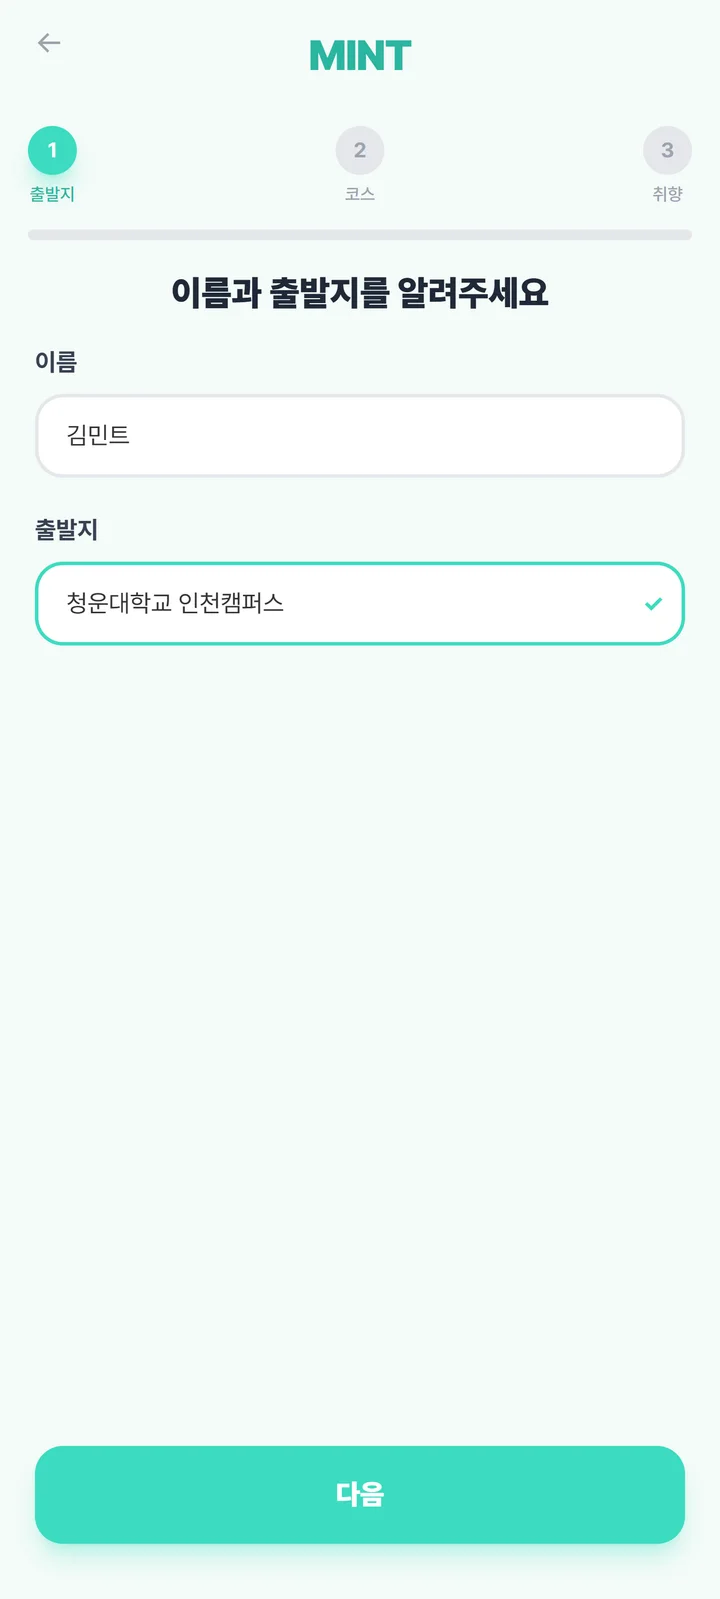
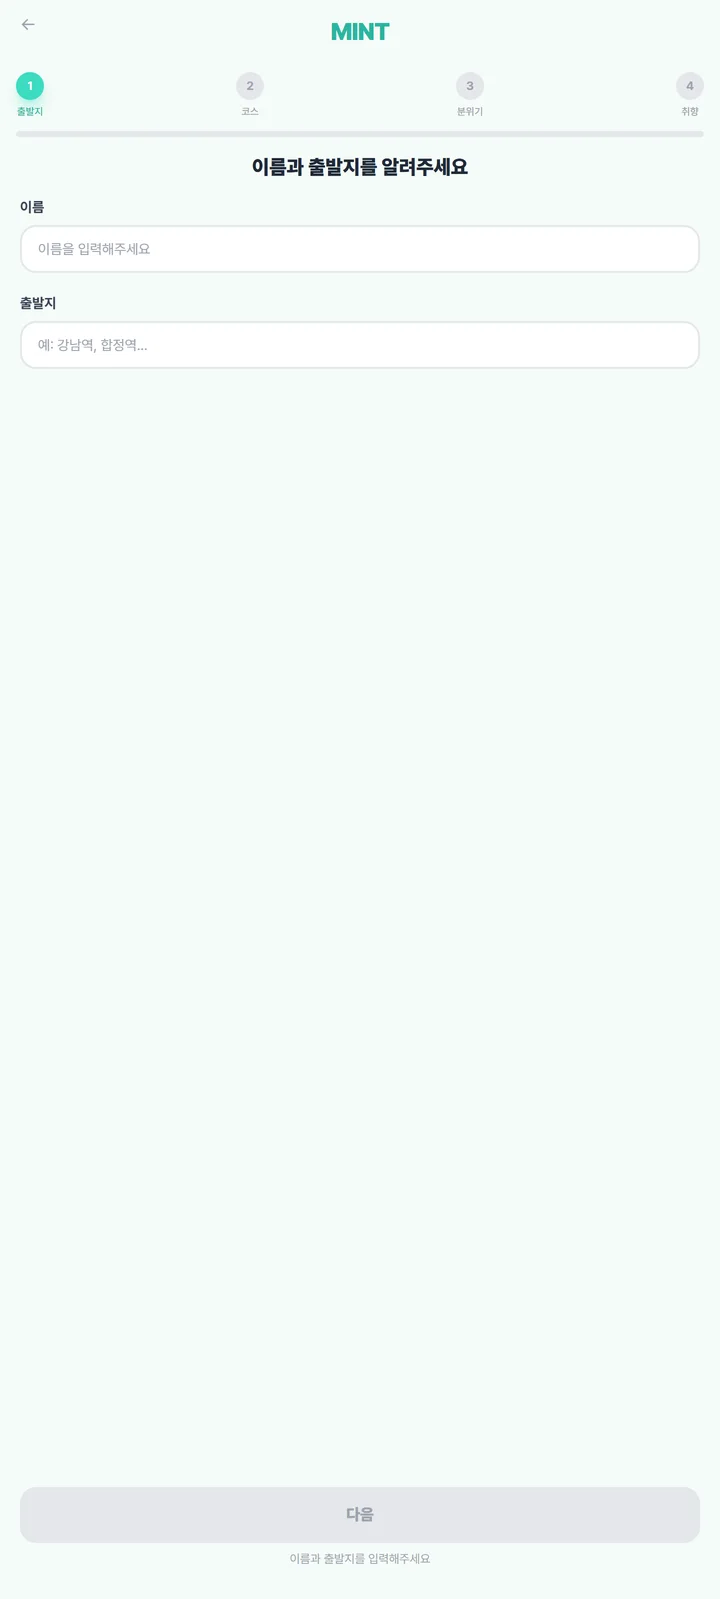
fix: 그룹 참여(링크) 흐름 4단계로 통일 + 그룹 취향/출발지 목업 갱신
버그: 그룹 링크로 참여하면 상단 단계바가 3단계(출발지/코스/취향)로 나와
호스트·솔로·랜딩의 4단계와 어긋났음("나도 참여하기"·멤버 링크 진입 시 4→3 전환).

수정:
- MemberInput을 4단계로 재구성: 출발지 / 코스 / 분위기 / 취향
  (취향 한 화면에 몰려있던 분위기+편식+편의시설을 분위기(step2)와
   못먹는음식·편의시설(step3)로 분리 — 4단계 정합 + 스크롤 부담 완화)
- VibeSelect에 section prop 추가('all'|'mood'|'extras'), 솔로 Home은 'all'로 기존 유지
- StepProgress total 3→4, 라벨 [출발지,코스,분위기,취향]

랜딩 목업:
- join-vibe.webp → 최신 취향/편식 화면(제공 스샷)으로 교체
- join-start.webp → 4단계 바 반영본으로 재생성

검증: Playwright로 참여 흐름 4단계 바 + step2(분위기만)/step3(편식·편의만) 분리 통과.
타입체크·단위테스트 26개 통과.

diff --git a/src/pages/MemberInput.tsx b/src/pages/MemberInput.tsx
@@ -9,7 +9,7 @@ import type { VibeState } from '../components/VibeSelect';
 import StepProgress from '../components/StepProgress';
 import { EXCLUDE_FOOD_PREFIX } from '../utils/groupAggregate';
 
-type Phase = 'step0' | 'step1' | 'step2' | 'done';
+type Phase = 'step0' | 'step1' | 'step2' | 'step3' | 'done';
 
 function SuggestionDropdown({
   suggestions,
@@ -244,7 +244,7 @@ export default function MemberInput() {
     );
   }
 
-  const stepIndex = phase === 'step0' ? 0 : phase === 'step1' ? 1 : 2;
+  const stepIndex = phase === 'step0' ? 0 : phase === 'step1' ? 1 : phase === 'step2' ? 2 : 3;
 
   return (
     <div className="h-[100dvh] bg-[#F5FBF8] flex flex-col overflow-hidden">
@@ -261,7 +261,7 @@ export default function MemberInput() {
 
       {/* 스텝 프로그레스 */}
       <div className="flex-shrink-0">
-        <StepProgress current={stepIndex} total={3} labels={['출발지', '코스', '취향']} />
+        <StepProgress current={stepIndex} total={4} labels={['출발지', '코스', '분위기', '취향']} />
       </div>
 
       {/* 스텝 제목 */}
@@ -270,9 +270,13 @@ export default function MemberInput() {
           {phase === 'step0' && '이름과 출발지를 알려주세요'}
           {phase === 'step1' && '오늘의 코스 선택'}
           {phase === 'step2' && '원하는 분위기를 골라봐요'}
+          {phase === 'step3' && '취향을 더 알려주세요'}
         </h2>
         {phase === 'step2' && (
-          <p className="text-xs text-gray-400 mt-1">취향을 많이 고를수록 추천이 정확해져요</p>
+          <p className="text-xs text-gray-400 mt-1">많이 고를수록 추천이 정확해져요</p>
+        )}
+        {phase === 'step3' && (
+          <p className="text-xs text-gray-400 mt-1">못 먹는 음식·편의시설 (선택)</p>
         )}
       </div>
 
@@ -334,6 +338,16 @@ export default function MemberInput() {
 
         {phase === 'step2' && (
           <VibeSelect
+            section="mood"
+            value={vibe}
+            onChange={setVibe}
+            purpose={{ first: purpose.first, second: purpose.second }}
+          />
+        )}
+
+        {phase === 'step3' && (
+          <VibeSelect
+            section="extras"
             value={vibe}
             onChange={setVibe}
             purpose={{ first: purpose.first, second: purpose.second }}
@@ -361,7 +375,7 @@ export default function MemberInput() {
         <div className="flex gap-3">
           {stepIndex > 0 && (
             <button
-              onClick={() => setPhase(stepIndex === 1 ? 'step0' : 'step1')}
+              onClick={() => setPhase((['step0', 'step1', 'step2', 'step3'] as const)[stepIndex - 1])}
               className="w-14 py-4 rounded-2xl border-2 border-gray-200 bg-white text-gray-500 font-bold text-lg hover:border-gray-300 transition-all active:scale-95"
             >
               ←
@@ -397,6 +411,15 @@ export default function MemberInput() {
           )}
 
           {phase === 'step2' && (
+            <button
+              onClick={() => setPhase('step3')}
+              className="flex-1 py-4 rounded-2xl font-black text-base transition-all active:scale-95 bg-[#3CDBC0] text-white shadow-lg shadow-[#3CDBC0]/30 hover:bg-[#2AB5A0]"
+            >
+              다음
+            </button>
+          )}
+
+          {phase === 'step3' && (
             <button
               onClick={handleSubmit}
               disabled={submitting}

diff --git a/src/components/VibeSelect.tsx b/src/components/VibeSelect.tsx
@@ -67,11 +67,16 @@ interface Props {
   onVibeCustomChange?: (label: string, text: string) => void;
   excludeFoods?: string[];
   onExcludeFoodsChange?: (f: string[]) => void;
+  // 'all'(기본)=전체 한 화면 / 'mood'=분위기·취향 카드만 / 'extras'=못먹는음식·편의시설만
+  // 그룹 참여(MemberInput)에서 취향을 2개 스텝으로 나눠 4단계로 맞추기 위한 스위치
+  section?: 'all' | 'mood' | 'extras';
 }
 
 const PRESET_CHIP_LABELS = ['단체룸', '야외테라스', '주차가능', '루프탑', '포토존', '야경맛집', '24시간', '반려동물', '혼잡하지않은'];
 
-export default function VibeSelect({ value, onChange, purpose, keywords = [], onKeywordsChange, excludeFoods = [], onExcludeFoodsChange }: Props) {
+export default function VibeSelect({ value, onChange, purpose, keywords = [], onKeywordsChange, excludeFoods = [], onExcludeFoodsChange, section = 'all' }: Props) {
+  const showMood = section === 'all' || section === 'mood';
+  const showExtras = section === 'all' || section === 'extras';
   const [customInput, setCustomInput] = useState('');
   const [excludeInput, setExcludeInput] = useState('');
 
@@ -142,7 +147,7 @@ export default function VibeSelect({ value, onChange, purpose, keywords = [], on
   return (
     <div className="px-4 pt-3 pb-6 flex flex-col gap-5">
       {/* 1차/2차 토글 안내 — 처음 쓰는 사람이 배지 의미를 알 수 있게 */}
-      {hasSecond && (
+      {showMood && hasSecond && (
         <div className="bg-[#E8F8F5] border border-[#3CDBC0]/30 rounded-xl px-3 py-2 flex items-center gap-2">
           <span className="text-base">💡</span>
           <p className="text-[11px] text-[#2AB5A0] leading-snug">
@@ -150,7 +155,7 @@ export default function VibeSelect({ value, onChange, purpose, keywords = [], on
           </p>
         </div>
       )}
-      {GROUPS.map((group, groupIdx) => {
+      {showMood && GROUPS.map((group, groupIdx) => {
         const g = value[group.label] ?? { first: null, second: null };
         return (
           <div key={group.label}>
@@ -202,7 +207,7 @@ export default function VibeSelect({ value, onChange, purpose, keywords = [], on
       })}
 
       {/* 편식 필터 — 못 먹는 음식은 입력만 하면 추천에서 확실히 제외 */}
-      {showExcludeFoods && (
+      {showExtras && showExcludeFoods && (
         <div>
           <div className="flex items-center gap-2 mb-2">
             <p className="text-[11px] font-bold text-gray-400 uppercase tracking-widest">🚫 못 먹는 음식</p>
@@ -252,7 +257,7 @@ export default function VibeSelect({ value, onChange, purpose, keywords = [], on
       )}
 
       {/* 편의시설 키워드 */}
-      {onKeywordsChange && (
+      {showExtras && onKeywordsChange && (
         <div>
           <div className="flex items-center gap-2 mb-2">
             <p className="text-[11px] font-bold text-gray-400 uppercase tracking-widest">편의시설</p>
